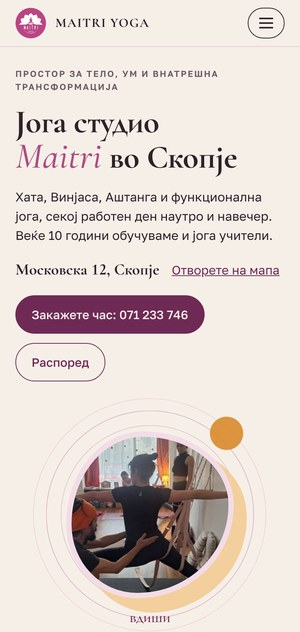
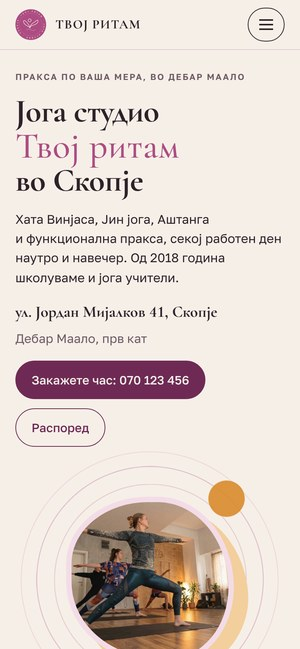
Portfolio lite v71: new yoga project, P1 22px, roomier navbar, text fixes
Claude-Session: https://claude.ai/code/session_01KhgrzXdSZCPQ3AB3VFTi1A

diff --git a/index.html b/index.html
@@ -810,7 +810,7 @@ html[lang="en"] .hero .book h1,html[lang="sr"] .hero .book h1{font-size:5.1vw!im
 .d3q-scr{background:#0f1a14}
 
 /* lite v61: caption inside the picture, on the floor */
-.d3-scene .dk-cap.in{position:absolute;left:0;right:0;top:72%;width:auto;min-height:0;z-index:5;gap:.9rem;transform:none}
+.d3-scene .dk-cap.in{position:absolute;left:0;right:0;top:77%;width:auto;min-height:0;z-index:5;gap:.9rem;transform:none}
 .d3-scene .dk-cap.in h3{color:#f8f1e6;font-size:clamp(1.3rem,2.3vw,2rem);-webkit-text-stroke:.5px rgba(90,42,26,.5);paint-order:stroke fill}
 .d3-scene .dk-cap.in .more{background:none;color:#f8f1e6;border-color:#f8f1e6}
 
@@ -831,10 +831,26 @@ html[lang] .hero .book h1{font-size:clamp(30px,3.2vw,46px)!important}
 .polaroid{width:min(96%,380px)!important}
 }
 .hero .aside .hand{color:#9c3450!important}
-@media(min-width:1100px){.hero .aside .hand{font-size:18px!important;line-height:1.35!important}}
+@media(min-width:1100px){.hero .aside .hand{font-size:22px!important;line-height:1.35!important}}
 @media(max-width:859px){
 html[lang] .hero .book h1{font-size:28px!important;white-space:normal!important;line-height:1.18!important}
 .hero .aside .hand{font-size:14px!important}
+}
+
+/* lite v71: roomier navbar */
+@media(min-width:700px){
+.top{padding-block:1.4rem 1.3rem!important;background:var(--paper)!important;box-shadow:0 0 0 100vmax var(--paper)!important}
+.top::after{border-bottom:1.5px solid color-mix(in srgb,var(--ink) 28%,transparent)!important}
+.nav{gap:.4rem 1.3rem!important}
+.nav [data-go]{padding:.3rem .95rem!important;font-size:1.4rem!important}
+.nav .lang{margin-left:2.2rem!important}
+section[id]{scroll-margin-top:96px}
+.desk-stick{top:90px!important}
+.desk,.dscene{width:min(100%,calc((100vh - 310px)*1.8099))!important}
+}
+@media(max-width:699px){
+.top{padding-block:.8rem .75rem!important}
+section[id]{scroll-margin-top:78px}
 }
 </style>
 
@@ -1092,7 +1108,7 @@ html[lang] .hero .book h1{font-size:28px!important;white-space:normal!important;
 (function(){
 var LANGS={mk:"mk",en:"en",sr:"sr-Latn"};
 var T={
- mk:{d_hint:"Кликнете",ft_ig:"Инстаграм",ft_ml:"Е-пошта",ft_tl:"Телефон",foot_c:"© 2026 IskraJoDesign™. Сите права се задржани.",sv_eh:"Дополнително",sv_ep:"Секое од ова ја менува крајната цена, па затоа го разгледуваме заедно.",e1h:"Повеќе јазици",e1p:"Страницата на два или повеќе јазици, со избирач на јазик.",e2h:"Резервации или јавување",e2p:"Посетителот закажува термин или<br>одбира да се јави директно од телефон.",e3h:"Анимации и посебни ефекти",e3p:"Движење што ја прави страницата жива, без да го одвлекува вниманието.",e4h:"Визуелен идентитет",e4p:"Бои, фонтови и стил што го следат вашиот идентитет.",e5h:"Текстови и фотографии",e5p:"Ако немате готови, ги подготвуваме заедно.",e6h:"Повеќе од пет дела",e6p:"Поголема страница, со повеќе содржина и подстраници.",live_l:"Целиот сајт во живо →",ft_k:"Избрани проекти",ft_h:"Неколку од мојата работа",ft_all:"Сите проекти →",ft_more:"Погледнете",bk:"← Назад",ab_more:"Повеќе за мене →",sv_k:"Услуги",sv_h:"Колку ќе ве чини едно практично, веб задоволство?",sv_p:"Крајната цена зависи од повеќе работи, а најмногу од тоа дали има проблем што сакате да се реши. Сè понатаму е договор, а ова е основата од која се почнува.",sv_c1:"Основа",sv_c2:"Цена",sv_r1:"Страница од еден екран, со верзија за мобилен",sv_r2:"Основна страна со до 5 подстрани, со мобилна верзија",sv_r3:"Дизајн на мобилна апликација",sv_pr:"од [цена]",sv_ap:"по договор",sv_up:"Цената се зголемува со: бројот на делови, повеќе јазици, анимации, резервации, визуелен идентитет и тоа кој ги подготвува текстовите и фотографиите.",sv_fh:"Пресметајте приближно",sv_fp:"Штиклирајте што ви треба, а јас ќе ви одговорам со понуда.",o1:"Повеќе јазици",o2:"Резервации или јавување преку страницата",o3:"Анимации и посебни ефекти",o4:"Визуелен идентитет",o5:"Сакам вие да ги подготвите текстовите и фотографиите",o6:"Повеќе од пет дела",o7:"Мобилна апликација",sv_b:"Подгответе го барањето",sv_ot:"Барање за понуда",sv_none:"Само основата, без дополнувања.",sv_cp:"Копирајте",sv_okm:"Копирано",alb_go:"Отворете",alb_t:"Мојот албум",alb_open:"Отворете го албумот",alb_close:"Затворете го",alb_prev:"назад",alb_next:"понатаму",alb_n:"фотографии",bf_k:"Бриф",co1_h:"Телефонски разговор од 15 минути",co1_p:"Изберете термин и оставете го вашиот телефонски број, а јас ќе ве повикам. Бесплатно и без обврска.",co2_h:"Пишете ми на е-пошта",co2_p:"Ако повеќе сакате да пишувате, опишете ми што ви треба.",co2_b:"Испратете е-пошта",co3:"Веќе знаете што сакате?",co3_l:"Пополнете го краткиот бриф подолу.",cta:"Закажете бесплатна консултација",tw_k:"Тестимонијали",tw_h:"Што велат клиентите",tw_q:"[Тука ќе стои реченица од клиент.]",tw_n:"[Име, бизнис]",why2_h:"Што добива вашиот бизнис",w21h:"Професионален дигитален излог што ја зголемува довербата кај клиентите",w22h:"Од посетител до клиент, преку брз контакт со вас",w23h:"Поголема локална видливост на пазарот",w24h:"Заштеда на време (сѐ за вашиот бизнис на едно место)",w25h:"Сајт што работи за вас 24/7",why_h:"Што ви нудам со дизајнот",w1h:"Јасно и лесно снаоѓање низ веб-страната",w1p:"За неколку секунди посетителот знае кој сте, што нудите и каде да кликне за следниот чекор.",w2h:"Брзи чекори до акција",w2p:"Секој дел е поставен така што посетителот лесно стигнува до саканата информација преку јавување, резервација или е-пошта.",w3h:"Функционална и на мобилен",w3p:"Повеќето клиенти ќе ве најдат преку телефон. Секоја страна ја дизајнирам да биде прегледна и на малите екрани во рака.",w4h:"Изглед по мерка, не AI шаблон",w4p:"Бои, фонтови и фотографии според вашиот бизнис, за да изгледате на сајтот точно како вас, а не како сите други.",w5h:"Визуелен уникатен идентитет",w5p:"Креирам целосна визуелна приказна која се раскажува преку вашиот сајт до посетителите.",why_k:"Зошто јас",ig_soon:"Instagram наскоро",look:"Погледнете повеќе",back:"Назад на купчето",prev:"назад",next:"понатаму",empty:"Тука има место за вашиот проект.",pick:"Изберете тетратка.",name:"Искра Јовановиќ",bf_h:"Кажете ми за вашиот проект",bf_p:"Пополнете што знаете, а остатокот го решаваме заедно. Не мора сѐ.",bf_note:"Кога ќе притиснете „Испратете“, брифот ми стигнува директно во е-поштата.",hn:"И не се грижете (иако сум и психолог),<br>нема да ве анализирам вас, само вашата конкуренција!",bh:"Три нешта во кои верувам",b1:"Дизајнот е разговор,<br>а не монолог.",b2:"Зад секој клик стои човек.",b3:"Едноставноста е<br>најхрабриот дизајн.",nav_work:"Дизајни",nav_photos:"Хоби",ph_h:"Фотографирање",ph_p:"Мојот начин да гледам на светот од друг агол, и секогаш учам нешто ново за емоциите, фокусот и светлината, кои потоа ги носам во моите дизајни.",nav_about:"За мене",nav_contact:"Контакт",
+ mk:{d_hint:"Кликнете",ft_ig:"Инстаграм",ft_ml:"Е-пошта",ft_tl:"Телефон",foot_c:"© 2026 IskraJoDesign™. Сите права се задржани.",sv_eh:"Дополнително",sv_ep:"Секое од ова ја менува крајната цена, па затоа го разгледуваме заедно.",e1h:"Повеќе јазици",e1p:"Страницата на два или повеќе јазици, со избирач на јазик.",e2h:"Резервации или јавување",e2p:"Посетителот закажува термин или<br>одбира да се јави директно од телефон.",e3h:"Анимации и посебни ефекти",e3p:"Движење што ја прави страницата жива, без да го одвлекува вниманието.",e4h:"Визуелен идентитет",e4p:"Бои, фонтови и стил што го следат вашиот идентитет.",e5h:"Текстови и фотографии",e5p:"Ако немате готови, ги подготвуваме заедно.",e6h:"Повеќе од пет дела",e6p:"Поголема страница, со повеќе содржина и подстраници.",live_l:"Целиот сајт во живо →",ft_k:"Избрани проекти",ft_h:"Неколку од мојата работа",ft_all:"Сите проекти →",ft_more:"Погледнете",bk:"← Назад",ab_more:"Повеќе за мене →",sv_k:"Услуги",sv_h:"Колку ќе ве чини едно практично, веб задоволство?",sv_p:"Крајната цена зависи од повеќе работи, а најмногу од тоа дали има проблем што сакате да се реши. Сè понатаму е договор, а ова е основата од која се почнува.",sv_c1:"Основа",sv_c2:"Цена",sv_r1:"Страница од еден екран, со верзија за мобилен",sv_r2:"Основна страна со до 5 подстрани, со мобилна верзија",sv_r3:"Дизајн на мобилна апликација",sv_pr:"од [цена]",sv_ap:"по договор",sv_up:"Цената се зголемува со: бројот на делови, повеќе јазици, анимации, резервации, визуелен идентитет и тоа кој ги подготвува текстовите и фотографиите.",sv_fh:"Пресметајте приближно",sv_fp:"Штиклирајте што ви треба, а јас ќе ви одговорам со понуда.",o1:"Повеќе јазици",o2:"Резервации или јавување преку страницата",o3:"Анимации и посебни ефекти",o4:"Визуелен идентитет",o5:"Сакам вие да ги подготвите текстовите и фотографиите",o6:"Повеќе од пет дела",o7:"Мобилна апликација",sv_b:"Подгответе го барањето",sv_ot:"Барање за понуда",sv_none:"Само основата, без дополнувања.",sv_cp:"Копирајте",sv_okm:"Копирано",alb_go:"Отворете",alb_t:"Мојот албум",alb_open:"Отворете го албумот",alb_close:"Затворете го",alb_prev:"назад",alb_next:"понатаму",alb_n:"фотографии",bf_k:"Бриф",co1_h:"Телефонски разговор од 15 минути",co1_p:"Изберете термин и оставете го вашиот телефонски број, а јас ќе ве повикам. Бесплатно и без обврска.",co2_h:"Пишете ми на е-пошта",co2_p:"Ако повеќе сакате да пишувате, опишете ми што ви треба.",co2_b:"Испратете е-пошта",co3:"Веќе знаете што сакате?",co3_l:"Пополнете го краткиот бриф подолу.",cta:"Закажете бесплатна консултација",tw_k:"Тестимонијали",tw_h:"Што велат клиентите",tw_q:"[Тука ќе стои реченица од клиент.]",tw_n:"[Име, бизнис]",why2_h:"Што добива вашиот бизнис",w21h:"Професионален дигитален излог што ја зголемува довербата кај клиентите",w22h:"Од посетител до клиент, преку брз контакт со вас",w23h:"Поголема локална видливост на пазарот",w24h:"Заштеда на време (сето за вашиот бизнис на едно место)",w25h:"Сајт што работи за вас 24/7",why_h:"Што ви нудам со дизајнот",w1h:"Јасно и лесно снаоѓање низ веб-страната",w1p:"За неколку секунди посетителот знае кој сте, што нудите и каде да кликне за следниот чекор.",w2h:"Брзи чекори до акција",w2p:"Секој дел е поставен така што посетителот лесно стигнува до саканата информација преку јавување, резервација или е-пошта.",w3h:"Функционална и на мобилен",w3p:"Повеќето клиенти ќе ве најдат преку телефон. Секоја страна ја дизајнирам да биде прегледна и на малите екрани во рака.",w4h:"Изглед по мерка, не AI шаблон",w4p:"Бои, фонтови и фотографии според вашиот бизнис, за да изгледате на сајтот точно како вас, а не како сите други.",w5h:"Визуелен уникатен идентитет",w5p:"Креирам целосна визуелна приказна која се раскажува преку вашиот сајт до посетителите.",why_k:"Зошто јас",ig_soon:"Instagram наскоро",look:"Погледнете повеќе",back:"Назад на купчето",prev:"назад",next:"понатаму",empty:"Тука има место за вашиот проект.",pick:"Изберете тетратка.",name:"Искра Јовановиќ",bf_h:"Кажете ми за вашиот проект",bf_p:"Пополнете што знаете, а остатокот го решаваме заедно. Не мора сѐ.",bf_note:"Кога ќе притиснете „Испратете“, брифот ми стигнува директно во е-поштата.",hn:"И не се грижете (иако сум и психолог),<br>нема да ве анализирам вас, само вашата конкуренција!",bh:"Три нешта во кои верувам",b1:"Дизајнот е разговор,<br>а не монолог.",b2:"Зад секој клик стои човек.",b3:"Едноставноста е<br>најхрабриот дизајн.",nav_work:"Дизајни",nav_photos:"Хоби",ph_h:"Фотографирање",ph_p:"Мојот начин да гледам на светот од друг агол, и секогаш учам нешто ново за емоциите, фокусот и светлината, кои потоа ги носам во моите дизајни.",nav_about:"За мене",nav_contact:"Контакт",
   h1:"<em>Дизајнирам</em> веб-страници<br>за да бидете чекор пред другите",sub:"Искра Јовановиќ · Скопје",
   cap1:"Искра",proto:"дизајнер · психолог",
   work_h:"Мои дизајни",q:"Што ви треба?",need_web:"Веб страна",need_app:"Мобилна апликација",need_shop:"Онлајн продавница",need_unsure:"Уште не знам",
@@ -1150,7 +1166,7 @@ var P={
  edge:{type:"web",status:"fict",thumb:"edge-t",imgs:["edge-f"],name:"Edge",line:{mk:"Концепт за веб страна на архитектонско студио: големи слики и мирна навигација.",en:"A concept website for an architecture studio: big images and calm navigation.",sr:"Koncept veb sajta za arhitektonski studio: velike slike i mirna navigacija."},tag:{mk:"Веб дизајн",en:"Web design",sr:"Veb dizajn"}},
  tav:{type:"web",status:"client",thumb:"tav-t",imgs:["tav-f"],name:{mk:"Таверна на море",en:"A seaside taverna",sr:"Taverna na moru"},line:{mk:"Веб страна за таверна со морска храна во Грција: мени, атмосфера и резервација.",en:"A website for a seafood taverna in Greece: the menu, the mood and a reservation.",sr:"Veb sajt za tavernu sa morskom hranom u Grčkoj: meni, atmosfera i rezervacija."},tag:{mk:"Веб дизајн",en:"Web design",sr:"Veb dizajn"}},
  fish:{type:"web",status:"client",thumb:"fish-t",imgs:["fish-f"],name:{mk:"Рибен ресторан",en:"A fish restaurant",sr:"Riblji restoran"},line:{mk:"Темна и топла веб страна за рибен ресторан во Скопје.",en:"A dark, warm website for a fish restaurant in Skopje.",sr:"Tamni, topli veb sajt za riblji restoran u Skoplju."},tag:{mk:"Веб дизајн",en:"Web design",sr:"Veb dizajn"}},
- yoga:{type:"web",status:"client",thumb:"yoga-t",imgs:["yoga-f"],name:{mk:"Maitri јога студио",en:"Maitri yoga studio",sr:"Maitri joga studio"},line:{mk:"Мирна веб страна за јога студио во Скопје, со распоред и запишување.",en:"A calm website for a yoga studio in Skopje, with a schedule and sign-up.",sr:"Miran veb sajt za joga studio u Skoplju, sa rasporedom i prijavom."},tag:{mk:"Веб дизајн",en:"Web design",sr:"Veb dizajn"}},
+ yoga:{type:"web",status:"client",thumb:"yoga-t",imgs:["yoga-f"],name:{mk:"Јога студио „Твој ритам“",en:"Yoga studio “Your Rhythm”",sr:"Joga studio „Tvoj ritam“"},line:{mk:"Мирна веб страна за јога студио во Скопје, со распоред на часови, членарина и обука за учители.",en:"A calm website for a yoga studio in Skopje, with a class schedule, memberships and teacher training.",sr:"Miran veb sajt za joga studio u Skoplju, sa rasporedom časova, članarinom i obukom za učitelje."},tag:{mk:"Веб дизајн",en:"Web design",sr:"Veb dizajn"}},
  phys:{type:"web",status:"client",thumb:"phys-t",imgs:["phys-f"],name:{mk:"Ординација за физикална терапија",en:"A physical therapy clinic",sr:"Ordinacija za fizikalnu terapiju"},line:{mk:"Веб страна за ординација за физикална терапија: третмани, тим и закажување.",en:"A website for a physical therapy clinic: treatments, team and booking.",sr:"Veb sajt za ordinaciju za fizikalnu terapiju: tretmani, tim i zakazivanje."},tag:{mk:"Веб дизајн",en:"Web design",sr:"Veb dizajn"}},
  beauty:{type:"web",status:"client",thumb:"beauty-t",imgs:["beauty-f"],name:{mk:"Салон за убавина",en:"A beauty salon",sr:"Salon lepote"},line:{mk:"Веб страна за салон за нега на коса, во топли и смирени тонови.",en:"A website for a hair care salon, in warm and quiet tones.",sr:"Veb sajt za salon za negu kose, u toplim i smirenim tonovima."},tag:{mk:"Веб дизајн",en:"Web design",sr:"Veb dizajn"}},
  vet:{type:"web",status:"client",thumb:"vet-t",imgs:["vet-f"],name:{mk:"Ветеринарна амбуланта",en:"A vet clinic",sr:"Veterinarska ambulanta"},line:{mk:"Веб страна за ветеринарна амбуланта: итни случаи, прегледи и совети за миленици.",en:"A website for a vet clinic: emergencies, check-ups and pet advice.",sr:"Veb sajt za veterinarsku ambulantu: hitni slučajevi, pregledi i saveti za ljubimce."},tag:{mk:"Веб дизајн",en:"Web design",sr:"Veb dizajn"}},
@@ -1195,7 +1211,7 @@ var IND=[
  {n:{mk:"Архитектура и уметност",en:"Architecture and art",sr:"Arhitektura i umetnost"},ids:["edge","arch","art"]}];
 var ORDER=[];IND.forEach(function(g){ORDER=ORDER.concat(g.ids);});
 var NBC=["#ecc6d0","#cfdac6","#d9cfe0","#ecdcb0","#c9d7e0","#eccbb8"],NBR=[3,-4,2.5,-1.5,3.5,-2.5],NBY=[-6,6,-8,10,-4,8];
-var LIVE={yoga:"maitri.joga.mk",k9:"mk.k-9",bubble:"bubble-fun",edge:"edge",tav:"tavernastsardaki.gr",phys:"meridian.medikal.mk",beauty:"thehouseofbeauty.by.kn.2026",arch:"bograd.struga"};
+var LIVE={yoga:"jogastudio.mk",k9:"mk.k-9",bubble:"bubble-fun",edge:"edge",tav:"tavernastsardaki.gr",phys:"meridian.medikal.mk",beauty:"thehouseofbeauty.by.kn.2026",arch:"bograd.struga"};
 var MOBILE={yoga:"mob-yoga",kids:"mob-kids",arch:"mob-arch",bubble:"mob-bubble",edge:"mob-edge",k9:"mob-k9",phys:"mob-phys",beauty:"mob-beauty",fish:"mob-fish",vet:"mob-vet",tav:"mob-tav",art:"mob-art"};/* real phone screenshots go here, e.g. k9:"mob-k9" */
 var openBook=null,pageIdx=0;
 var NEED={web:ORDER.filter(function(k){return P[k].type==="web";}),app:["diahero"],shop:["bubble"],unsure:[]};
